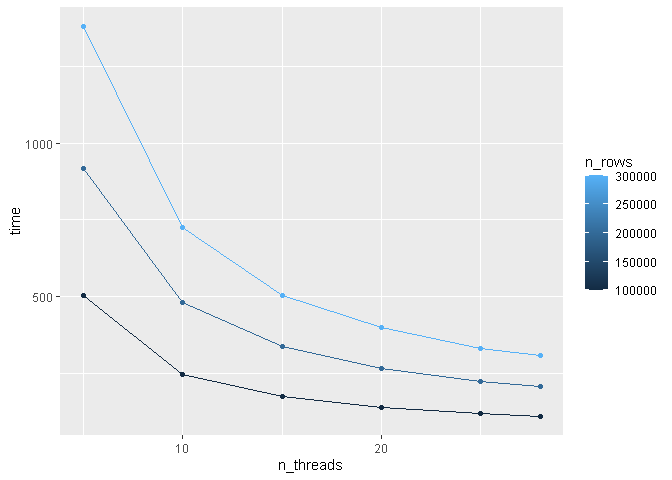
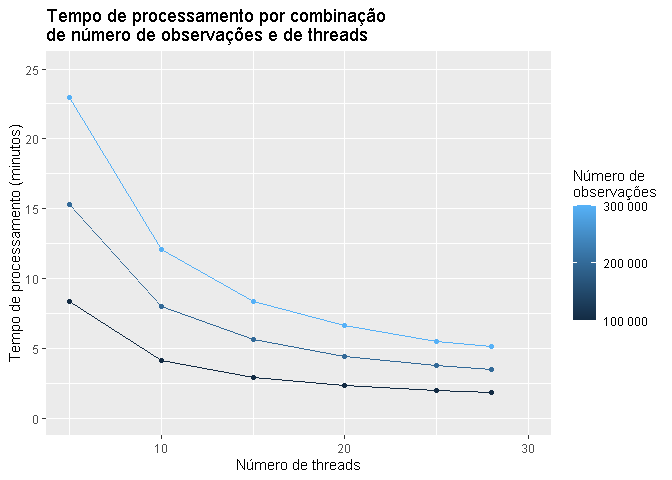
refinando analise

diff --git a/README.md b/README.md
@@ -4,17 +4,4 @@
 Analisando o efeito do número de threads e observações no tempo de
 processamento.
 
-``` r
-library(ggplot2)
-#> Warning: package 'ggplot2' was built under R version 4.3.3
-library(targets)
-
-timings <- tar_read(timings)
-timings <- data.table::rbindlist(timings)
-
-ggplot(timings) +
-  geom_line(aes(x = n_threads, y = time, color = n_rows, group = n_rows)) +
-  geom_point(aes(x = n_threads, y = time, color = n_rows))
-```
-
-<img src="figures/README-unnamed-chunk-2-1.png" width="100%" />
+<img src="figures/README-unnamed-chunk-2-1.png" width="100%" /><img src="figures/README-unnamed-chunk-2-2.png" width="100%" />
